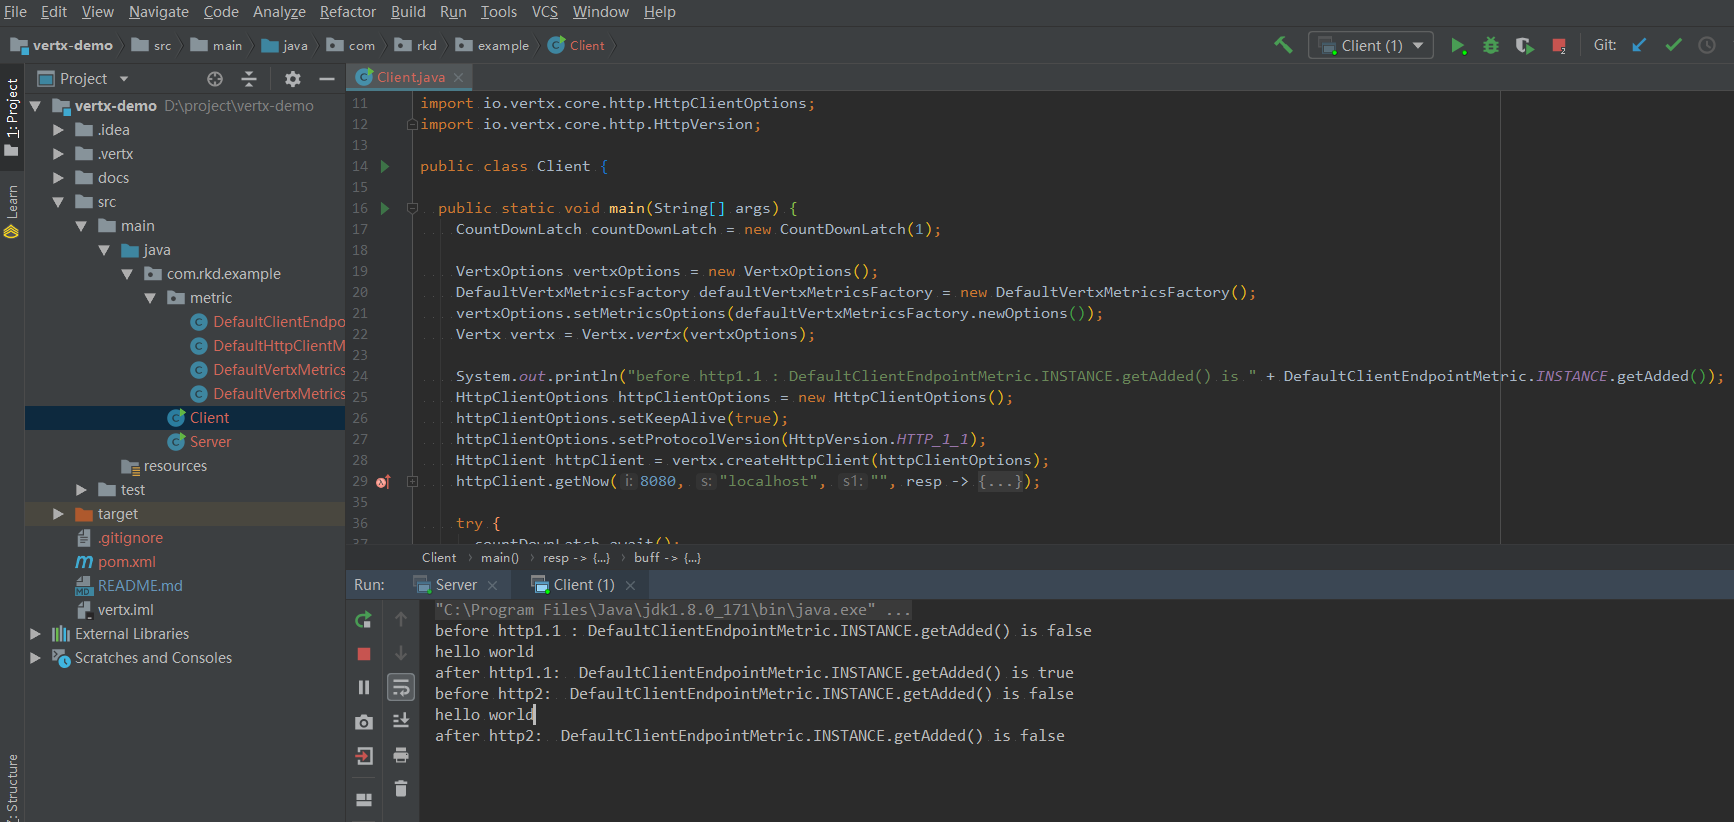
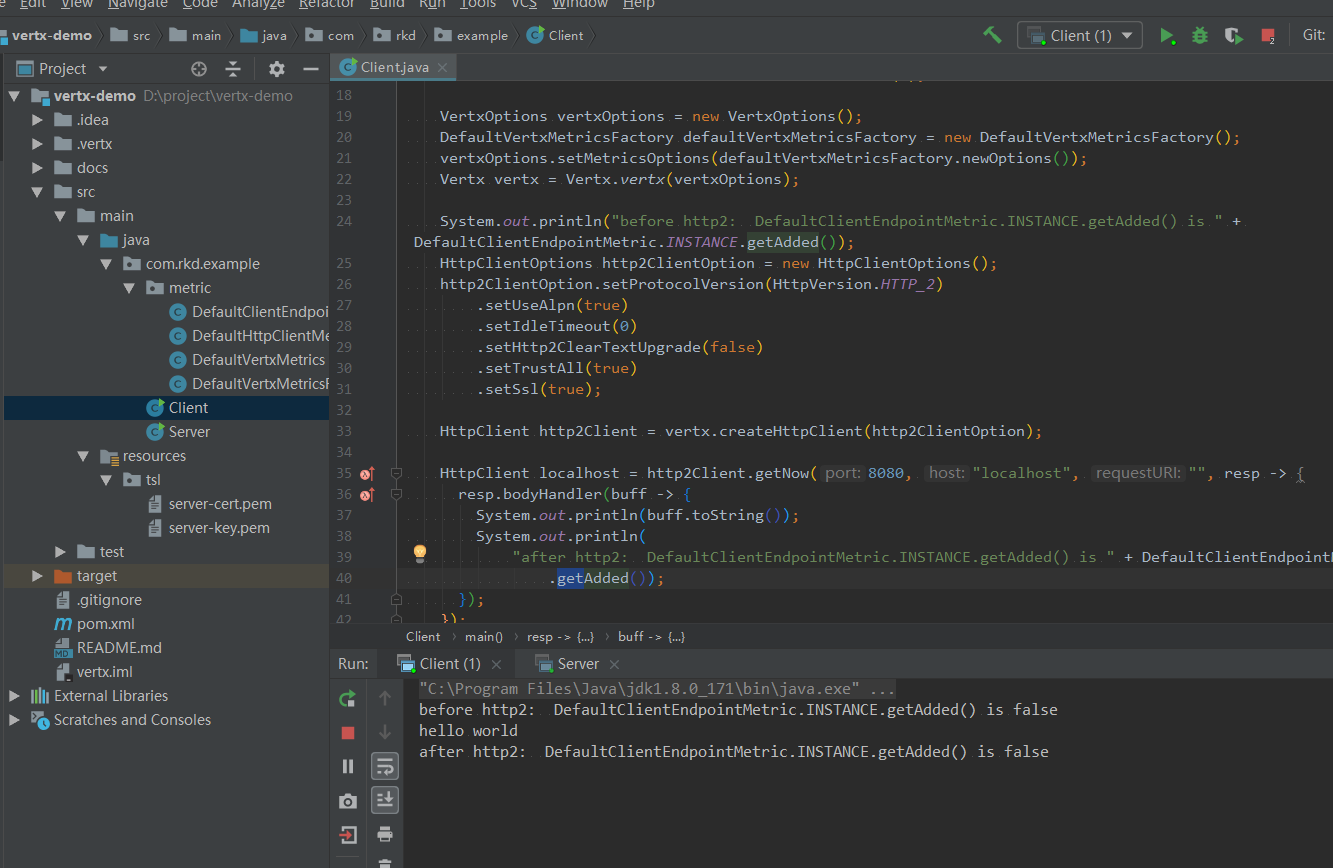
modify readme

diff --git a/README.md b/README.md
@@ -29,10 +29,8 @@ the result is show as below:
 you can see that http2 client will not invoke the method `endpointConnected` 
 
 ```
-before http1.1 : DefaultClientEndpointMetric.INSTANCE.getAdded() is false
-hello world
-after http1.1:  DefaultClientEndpointMetric.INSTANCE.getAdded() is true
 before http2:  DefaultClientEndpointMetric.INSTANCE.getAdded() is false
 hello world
 after http2:  DefaultClientEndpointMetric.INSTANCE.getAdded() is false
+
 ```
